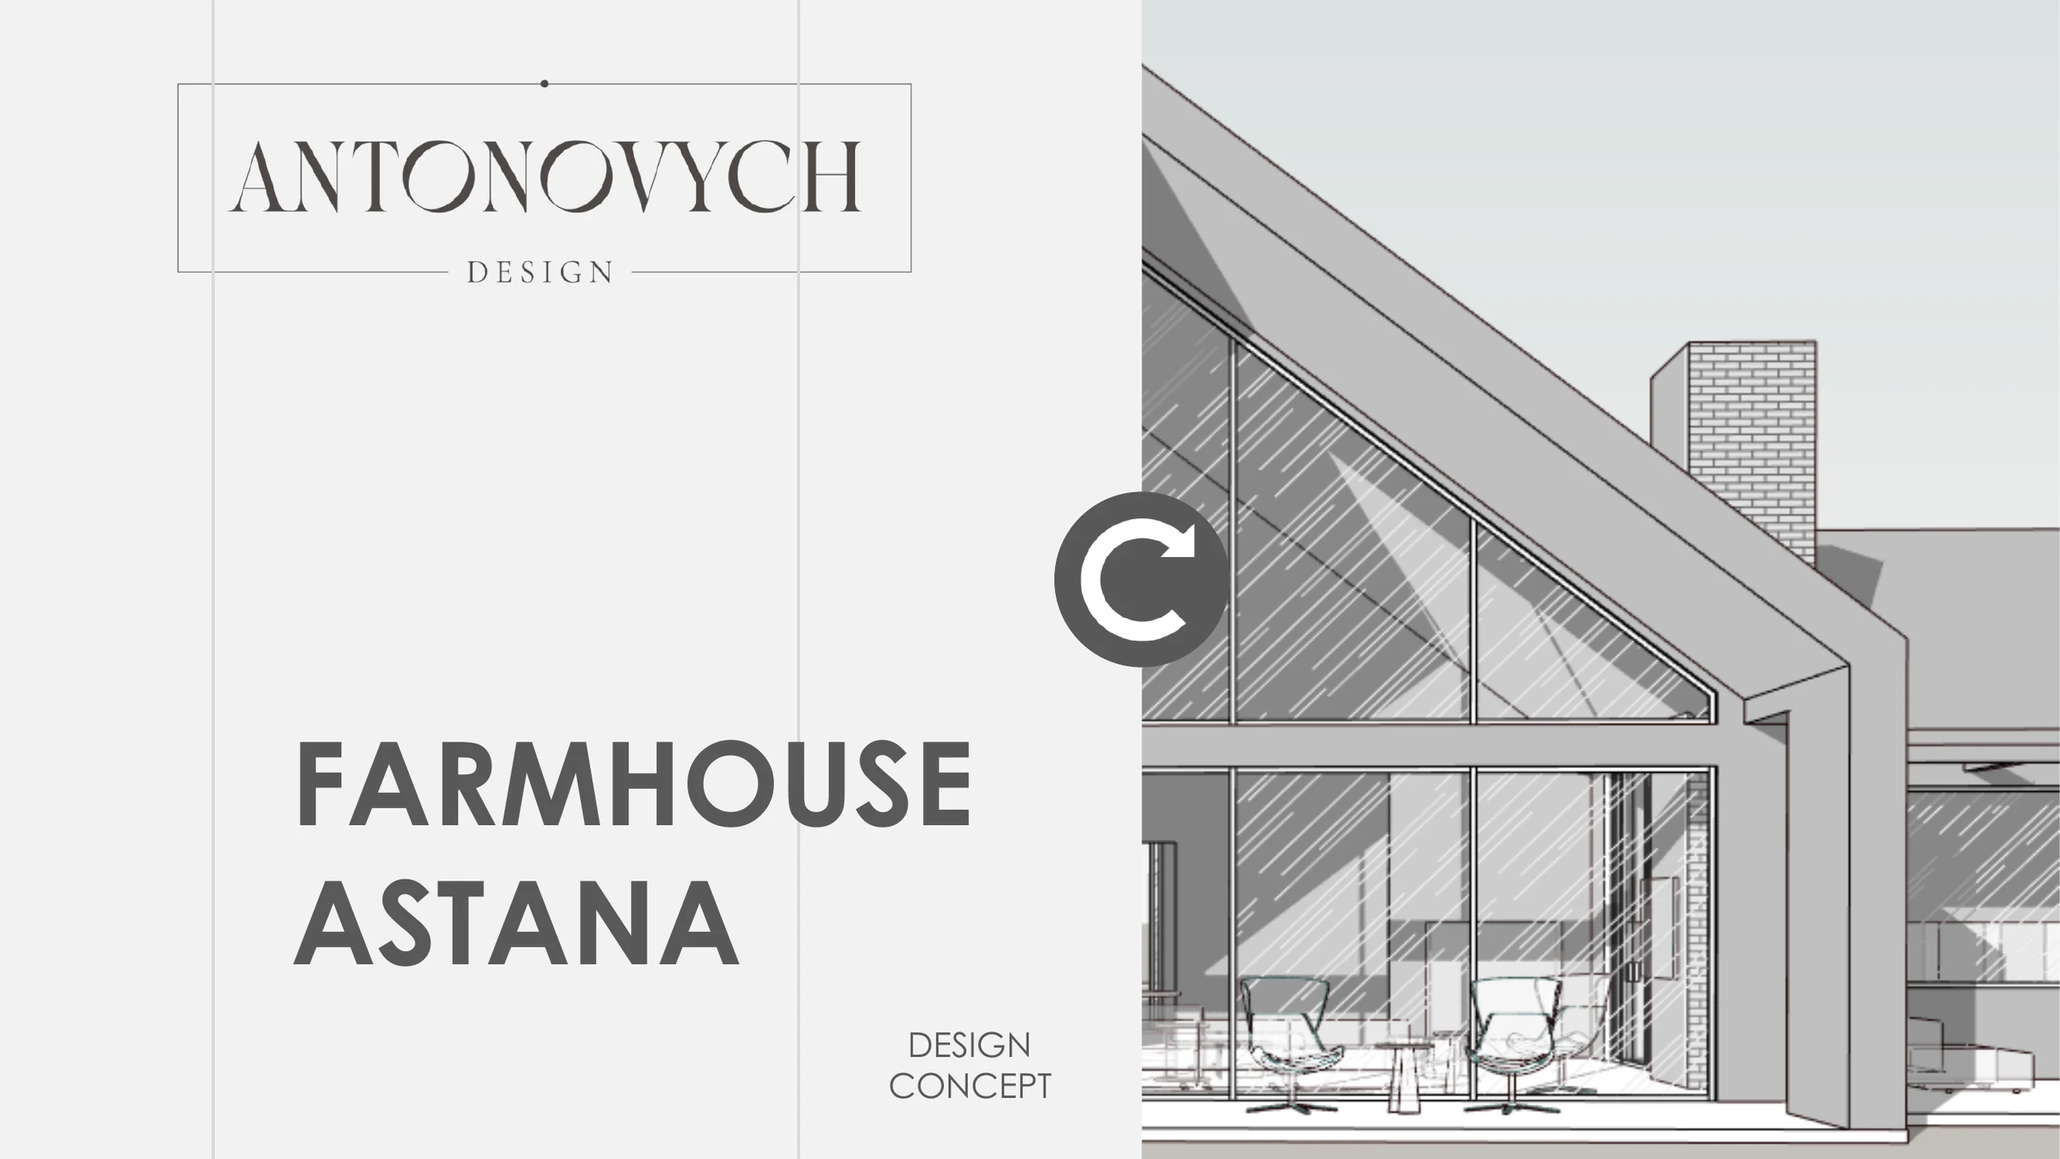
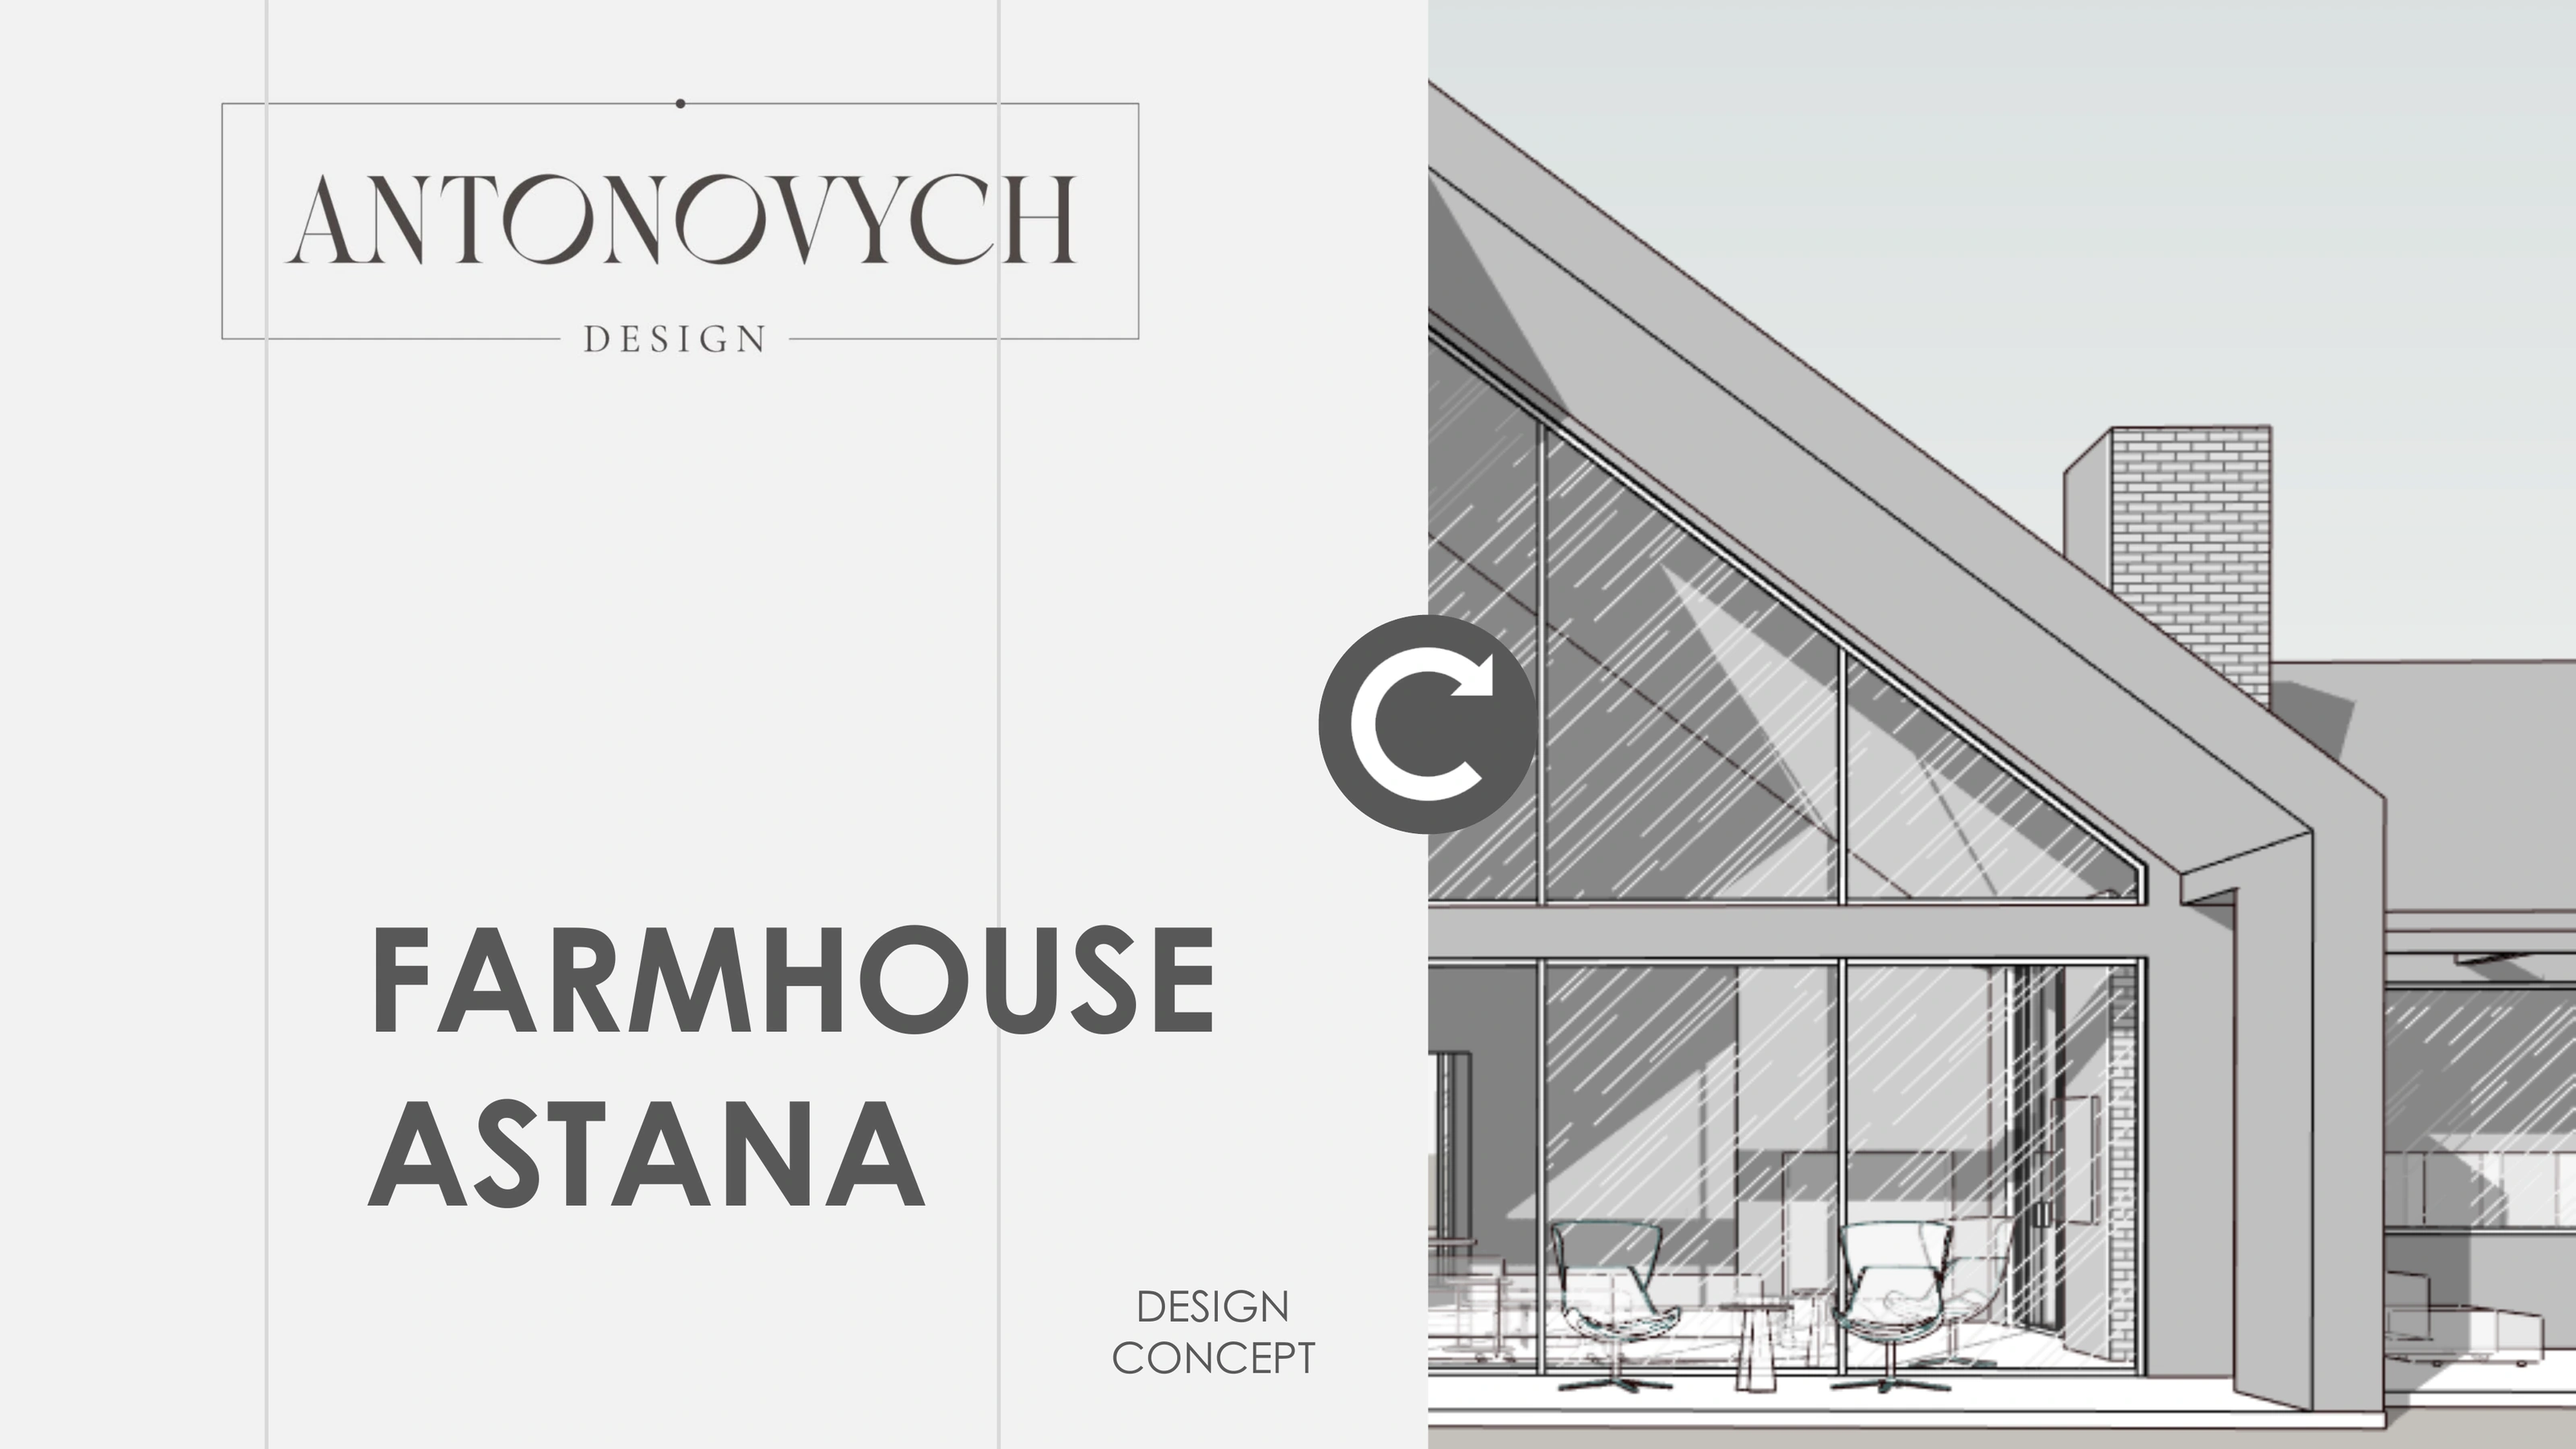
Чертежи в высоком разрешении без потерь, страницы Farmhouse чётче
Claude-Session: https://claude.ai/code/session_01JiQR7r8G6sd8gMfUwXA81M

diff --git a/index.html b/index.html
@@ -6,7 +6,7 @@
 <title>Antonovych Design · Проектное предложение</title>
 <meta name="description" content="Antonovych Design — проектное предложение: схемы расстановки мебели и примеры концепций архитектуры дома.">
 <meta name="theme-color" content="#FAFAFA">
-<link rel="stylesheet" href="styles.css?v=202610301255">
+<link rel="stylesheet" href="styles.css?v=202610301310">
 </head>
 <body>
 
@@ -18,7 +18,7 @@
 <div id="counter"></div>
 <div id="hint">← → листать   ·   Esc обзор   ·   F во весь экран</div>
 
-<script src="slides.js?v=202610301255"></script>
-<script src="app.js?v=202610301255"></script>
+<script src="slides.js?v=202610301310"></script>
+<script src="app.js?v=202610301310"></script>
 </body>
 </html>
